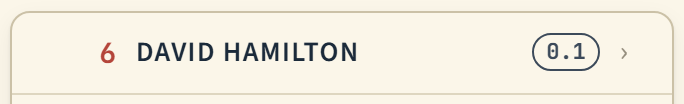
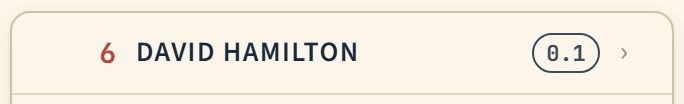
Pill: centre the figures in the WAR and grade tags (#1131)
JetBrains Mono's figures sat 0.5px high in the rank tag's 2px/2px box, at
1x, 2x and 3x alike. The inked edge made it plain on the roster's WAR
column. The browser snaps text to a whole pixel, so a sub-pixel nudge
changes nothing; one more pixel of top padding puts the glyph box at 0.00
from the inner box's centre at every density. The tag is now 20.2px.

Changed region(s): [[0.7675, 0.3462, 0.8904, 0.7212]]

diff --git a/src/styles/31-wild-card.css b/src/styles/31-wild-card.css
@@ -308,6 +308,13 @@
   font-variant-numeric: tabular-nums;
   font-size: var(--fs-cell);
   letter-spacing: var(--ls-none);
+  /* One more pixel on top. JetBrains Mono's figures sat 0.5px high in the
+     tag's 2px/2px box — at 1x, 2x and 3x alike, plain against the inked edge —
+     and the browser snaps text to a whole pixel, so a sub-pixel (em) nudge
+     changes nothing. Measured glyph box against inner box: 3px over 2px puts
+     the figures at 0.00 at every density, and the tag at 20.2px, beside the
+     20.4px display-face tags. */
+  padding-top: 3px;
 }
 /* The two tints: a soft wash, a deep ink, no edge. They set the pill's own
    custom properties rather than repainting it, the way a surface re-inks a

diff --git a/.scratch/design-system/pill-collapse/after/sheet.md b/.scratch/design-system/pill-collapse/after/sheet.md
@@ -1,6 +1,6 @@
 # Contact sheet — after
 
-390px, ?nointro, captured from http://localhost:5171. Crops: `<name>.png` (tag in its row) and `<name>--tag.png` (2x).
+900px, ?nointro, captured from http://localhost:5171. Crops: `<name>.png` (tag in its row) and `<name>--tag.png` (2x).
 
 | tag | selector | h | host h | padding T R B L | font | size | tracking | line-h | border | fill | ink | edge |
 | --- | --- | ---: | ---: | --- | --- | ---: | --- | --- | --- | --- | --- | --- |
@@ -10,10 +10,10 @@
 | prospect-movedup | `.movedup .prospect__tag` | 20.4 | 44.4 | 2 6 2 6 | Barlow Condensed | 12 | 1.08px | 14.4px | 1 solid | rgba(0, 0, 0, 0) | rgb(60, 74, 90) | rgb(60, 74, 90) |
 | tier | `.tier__tag` | 20.4 | 33.4 | 2 6 2 6 | Barlow Condensed | 12 | 1.08px | 14.4px | 1 solid | rgb(227, 237, 226) | rgb(37, 87, 64) | rgb(47, 110, 79) |
 | tier-2 | `.tier__tag` | 20.4 | 33.4 | 2 6 2 6 | Barlow Condensed | 12 | 1.08px | 14.4px | 1 solid | rgb(227, 237, 226) | rgb(37, 87, 64) | rgb(47, 110, 79) |
-| rank-roster | `.rank__tag` | 19.2 | 40 | 2 6 2 6 | JetBrains Mono | 11 | normal | 13.2px | 1 solid | rgba(0, 0, 0, 0) | rgb(60, 74, 90) | rgb(60, 74, 90) |
-| rank-good | `.rank__tag--good` | 19.2 | 36.2 | 2 6 2 6 | JetBrains Mono | 11 | normal | 13.2px | 1 solid | rgb(227, 237, 226) | rgb(37, 87, 64) | rgba(0, 0, 0, 0) |
-| rank-bad | `.rank__tag--bad` | 19.2 | 36.2 | 2 6 2 6 | JetBrains Mono | 11 | normal | 13.2px | 1 solid | rgb(243, 224, 219) | rgb(142, 51, 43) | rgba(0, 0, 0, 0) |
-| rank-plain | `.rank__tag:not(.rank__tag--good):not(.rank__tag--bad)` | 19.2 | 36.2 | 2 6 2 6 | JetBrains Mono | 11 | normal | 13.2px | 1 solid | rgba(0, 0, 0, 0) | rgb(60, 74, 90) | rgb(60, 74, 90) |
+| rank-roster | `.rank__tag` | 20.2 | 40.2 | 3 6 2 6 | JetBrains Mono | 11 | normal | 13.2px | 1 solid | rgba(0, 0, 0, 0) | rgb(60, 74, 90) | rgb(60, 74, 90) |
+| rank-good | `.rank__tag--good` | 20.2 | 37.2 | 3 6 2 6 | JetBrains Mono | 11 | normal | 13.2px | 1 solid | rgb(227, 237, 226) | rgb(37, 87, 64) | rgba(0, 0, 0, 0) |
+| rank-bad | `.rank__tag--bad` | 20.2 | 37.2 | 3 6 2 6 | JetBrains Mono | 11 | normal | 13.2px | 1 solid | rgb(243, 224, 219) | rgb(142, 51, 43) | rgba(0, 0, 0, 0) |
+| rank-plain | `.rank__tag:not(.rank__tag--good):not(.rank__tag--bad)` | 20.2 | 37.2 | 3 6 2 6 | JetBrains Mono | 11 | normal | 13.2px | 1 solid | rgba(0, 0, 0, 0) | rgb(60, 74, 90) | rgb(60, 74, 90) |
 | leaguerank | `.leaguerank .pill` | 22.8 | 51.6 | 2 6 2 6 | Barlow Condensed | 12 | 1.08px | 14.4px | 1 solid | rgb(251, 246, 233) | rgb(60, 74, 90) | rgb(203, 193, 167) |
 | awards | `.awards .pill` | 20.4 | 46.8 | 2 6 2 6 | Barlow Condensed | 12 | 1.08px | 14.4px | 1 solid | rgb(251, 246, 233) | rgb(60, 74, 90) | rgb(203, 193, 167) |
 | simlike | `.simlike__term` | 20.4 | 46.8 | 2 6 2 6 | Barlow Condensed | 12 | 1.08px | 14.4px | 1 solid | rgba(0, 0, 0, 0) | rgb(27, 42, 58) | rgb(27, 42, 58) |
